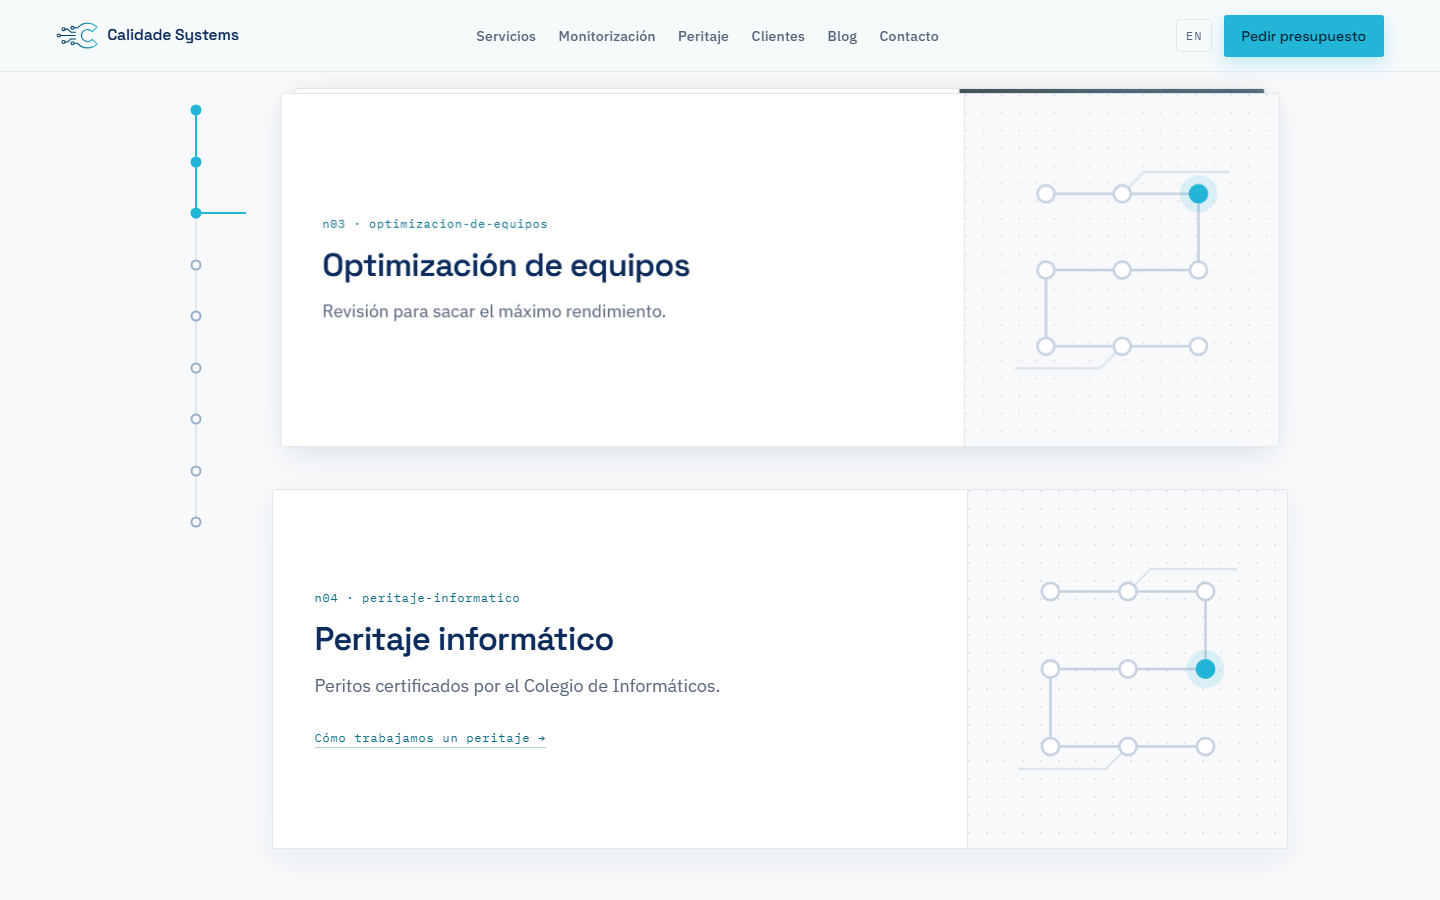
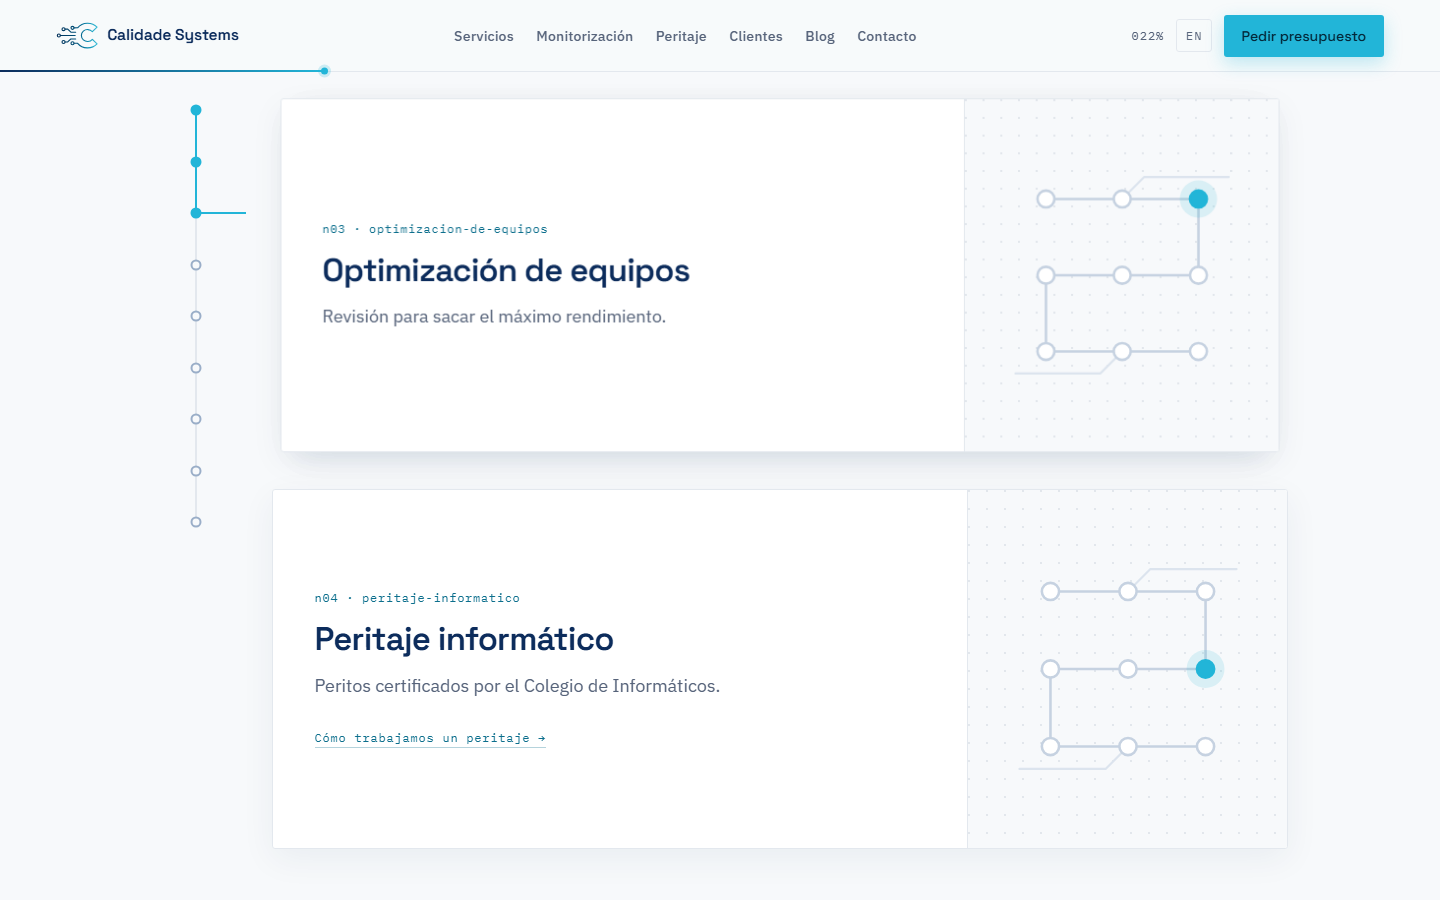
Arreglar el final de la pila de servicios y anadir el avance del recorrido
La ultima tarjeta (N09) atravesaba el tope sin llegar a pegarse: aparecia y
se iba con la pagina, dejando ver un instante las ocho de atras encogidas.
Eran dos fallos encadenados, los dos en como se calcula el recorrido de un
elemento pegajoso:

1. El margin-bottom del ULTIMO hijo no da recorrido, porque el bloque
   contenedor crece con el y su borde inferior no se aleja. El recorrido
   tiene que ser contenido de verdad: .stack::after.

2. La restriccion del pegajoso se aplica sobre la CAJA DE MARGEN. Al quitarle
   el margen solo a la ultima, su caja quedaba 38vh mas corta que la de las
   demas y las tarjetas se soltaban escalonadas: las de atras salian antes,
   subian por delante de la activa y se las veia asomar 43 px por arriba.
   Ahora todas llevan el mismo margen y se sueltan en el mismo pixel.

Ademas, la tarjeta que sale se desplazaba hacia ARRIBA (y: -8). Con
transform-origin en el borde superior eso dejaba su canto asomando sobre la
que entra. Pasa a y: +6, que la mete detras por los cuatro lados.

Medido: las nueve tarjetas llegan a pegarse, se sueltan todas en y=6940 y la
ultima aguanta 330 px pegada donde antes aguantaba 0.

Se anade tambien el avance del recorrido, en el idioma de la placa: una pista
bajo la cabecera que se llena de marino a cian, un nodo que la recorre y una
cifra mono junto al selector de idioma. Es informacion, no adorno, asi que se
actualiza tambien sin GSAP y con movimiento reducido. Se dibuja con
[…]

diff --git a/css/style.css b/css/style.css
@@ -194,6 +194,42 @@ input, textarea { font: inherit; color: inherit; }
 }
 .nav-movil a:last-child { border-bottom: 0; color: var(--gris-txt); font-size: 1rem; }
 
+/* ------------------------------------------------- avance del recorrido
+   Cuanto scroll llevas, en el idioma de la placa: una pista que se llena y
+   un nodo que la recorre. Se dibuja con transform:scaleX, no con
+   stroke-dasharray sobre un viewBox estirado: una barra recta estirada de
+   forma no uniforme rompe el truco del dasharray y sale a trozos. */
+.progreso {
+  position: fixed;
+  top: calc(var(--nav-h) - 2px); left: 0; right: 0;
+  height: 2px; z-index: 151; pointer-events: none;
+  opacity: 0; transition: opacity 0.3s ease;
+}
+.progreso.visible { opacity: 1; }
+.progreso-pista {
+  display: block; height: 100%;
+  background: linear-gradient(90deg, var(--marino), var(--cian));
+  transform: scaleX(var(--progreso, 0));
+  transform-origin: left center;
+}
+.progreso-nodo {
+  position: absolute; top: 50%;
+  /* el recorrido se descuenta el ancho del propio nodo: asi no se sale del
+     viewport ni al 0 % ni al 100 % (nada de translate(-50%)) */
+  left: calc(var(--progreso, 0) * (100% - 7px));
+  width: 7px; height: 7px; border-radius: 50%;
+  background: var(--cian);
+  box-shadow: 0 0 0 3px rgba(34, 181, 216, 0.2);
+  transform: translateY(-50%);
+}
+.progreso-cifra {
+  color: var(--gris-txt);
+  font-variant-numeric: tabular-nums;
+  letter-spacing: 0.08em;
+  display: none;
+}
+@media (min-width: 62rem) { .progreso-cifra { display: inline; } }
+
 /* --------------------------------------------------------------- botones */
 .btn {
   display: inline-flex; align-items: center; justify-content: center; gap: 0.5rem;
@@ -334,7 +370,7 @@ input, textarea { font: inherit; color: inherit; }
 }
 
 /* ------------------------------------------------- servicios: pila nodos */
-.servicios { padding-block: clamp(4rem, 9vw, 7rem) clamp(3rem, 7vw, 6rem); }
+.servicios { padding-block: clamp(4rem, 9vw, 7rem) clamp(1.5rem, 3vw, 3rem); }
 .stack-zona {
   width: 100%; max-width: var(--ancho); margin-inline: auto;
   padding-inline: var(--gutter);
@@ -360,7 +396,20 @@ input, textarea { font: inherit; color: inherit; }
   top: calc(var(--nav-h) + 1.5rem);
   margin-bottom: 38vh;
 }
-.stack-item:last-child { margin-bottom: 0; }
+/* Dos cosas que hay que dejar exactamente asi:
+
+   1. El recorrido del ultimo pegajoso tiene que ser CONTENIDO. El margen del
+      ultimo hijo no sirve: el bloque contenedor crece con el, asi que su borde
+      inferior no se aleja y la tarjeta se despega en el mismo frame en que
+      llega. De ahi el ::after.
+
+   2. TODAS las tarjetas llevan el mismo margen, tambien la ultima. La
+      restriccion del pegajoso se aplica sobre la CAJA DE MARGEN: si a la
+      ultima se le quita el margen, su caja es 38vh mas corta que la de las
+      demas y se sueltan escalonadas. Las de atras salen antes, suben por
+      delante de la activa y se ven asomar por arriba. Con el margen igualado
+      se sueltan todas en el mismo pixel de scroll. */
+.stack::after { content: ""; display: block; height: 38vh; }
 
 .nodo-tarjeta {
   background: var(--blanco-puro);
@@ -701,6 +750,7 @@ html.has-motion .traza-caja .traza-via { opacity: 0; }
   .stack-zona { grid-template-columns: 1.6rem minmax(0, 1fr); gap: 0.5rem; }
   .nodo-tarjeta { min-height: 0; padding: 1.25rem 1.1rem; }
   .stack-item { margin-bottom: 30vh; }
+  .stack::after { height: 30vh; }
   .cita-grande p::before, .cita-grande p::after { content: none; }
   .fab { font-size: 0.75rem; padding: 0.65rem 0.9rem; }
   .latido { position: static; transform: none; margin-top: 0.9rem; justify-content: center; }

diff --git a/js/main.js b/js/main.js
@@ -138,12 +138,23 @@
   /* ====================================================================== */
   (function cabeceraYFab() {
     var cabecera = $(".cabecera"), fab = $(".fab"), hero = $(".hero");
+    var barra = $("[data-progreso]"), cifra = $("[data-progreso-cifra]");
     var pendiente = false;
     function pintar() {
       pendiente = false;
       var y = window.pageYOffset;
       if (cabecera) cabecera.classList.toggle("pegada", y > 24);
       if (fab && hero) fab.classList.toggle("visible", y > hero.offsetHeight * 0.7);
+
+      /* Cuanto recorrido llevas. Es informacion, no adorno: se sigue
+         actualizando con movimiento reducido y sin GSAP, igual que el reloj. */
+      if (barra || cifra) {
+        var total = Math.max(0, html.scrollHeight - window.innerHeight);
+        var p = total > 0 ? Math.min(1, Math.max(0, y / total)) : 0;
+        html.style.setProperty("--progreso", p.toFixed(4));
+        if (barra) barra.classList.toggle("visible", y > 24);
+        if (cifra) cifra.textContent = ("00" + Math.round(p * 100)).slice(-3) + "%";
+      }
     }
     window.addEventListener("scroll", function () {
       if (!pendiente) { pendiente = true; requestAnimationFrame(pintar); }
@@ -505,10 +516,16 @@
       items.forEach(function (it, i) {
         if (i === items.length - 1) return;
         var tarjeta = $(".nodo-tarjeta", it);
+        /* La tarjeta que sale se encoge y se hunde un poco. El desplazamiento
+           tiene que ser HACIA ABAJO: con transform-origin en el borde superior,
+           un `y` negativo deja su canto asomando por encima de la que entra y
+           se ve una raya. Con +6 queda tapada por los cuatro lados. */
         gsap.to(tarjeta, {
-          scale: 0.955, y: -8, ease: "none",
+          scale: 0.955, y: 6, ease: "none",
           scrollTrigger: {
-            trigger: items[i + 1], start: "top 80%", end: "top " + Math.round(topePegajoso()),
+            trigger: items[i + 1],
+            start: "top 80%",
+            end: function () { return "top " + Math.round(topePegajoso()); },
             scrub: 0.5, invalidateOnRefresh: true
           }
         });

diff --git a/es/index.html b/es/index.html
@@ -113,6 +113,7 @@
     <a href="#contacto">Contacto</a>
   </nav>
   <div class="cabecera-fin">
+    <span class="progreso-cifra mono" data-progreso-cifra aria-hidden="true">000%</span>
     <a class="idioma" href="../en/" hreflang="en" lang="en">EN</a>
     <a class="btn btn-cian btn-nav" href="#contacto" data-magnetico>Pedir presupuesto</a>
     <button class="nav-toggle" type="button" aria-expanded="false" aria-controls="nav-movil" aria-label="Abrir menú">
@@ -120,6 +121,10 @@
     </button>
   </div>
 </header>
+<div class="progreso" data-progreso aria-hidden="true">
+  <span class="progreso-pista"></span>
+  <span class="progreso-nodo"></span>
+</div>
 <nav class="nav-movil" id="nav-movil" aria-label="Secciones (móvil)" hidden>
   <a href="#servicios">Servicios</a>
   <a href="#monitorizacion">Monitorización</a>

diff --git a/en/index.html b/en/index.html
@@ -113,6 +113,7 @@
     <a href="#contact">Contact</a>
   </nav>
   <div class="cabecera-fin">
+    <span class="progreso-cifra mono" data-progreso-cifra aria-hidden="true">000%</span>
     <a class="idioma" href="../es/" hreflang="es" lang="es">ES</a>
     <a class="btn btn-cian btn-nav" href="#contact" data-magnetico>Request a quote</a>
     <button class="nav-toggle" type="button" aria-expanded="false" aria-controls="nav-movil" aria-label="Open menu">
@@ -120,6 +121,10 @@
     </button>
   </div>
 </header>
+<div class="progreso" data-progreso aria-hidden="true">
+  <span class="progreso-pista"></span>
+  <span class="progreso-nodo"></span>
+</div>
 <nav class="nav-movil" id="nav-movil" aria-label="Sections (mobile)" hidden>
   <a href="#services">Services</a>
   <a href="#monitoring">Monitoring</a>

diff --git a/es/aviso-legal.html b/es/aviso-legal.html
@@ -43,6 +43,10 @@
     <a class="btn btn-cian btn-nav" href="./#contacto">Pedir presupuesto</a>
   </div>
 </header>
+<div class="progreso" data-progreso aria-hidden="true">
+  <span class="progreso-pista"></span>
+  <span class="progreso-nodo"></span>
+</div>
 
 <main class="legal">
   <div class="contenedor">

diff --git a/es/politica-de-cookies.html b/es/politica-de-cookies.html
@@ -43,6 +43,10 @@
     <a class="btn btn-cian btn-nav" href="./#contacto">Pedir presupuesto</a>
   </div>
 </header>
+<div class="progreso" data-progreso aria-hidden="true">
+  <span class="progreso-pista"></span>
+  <span class="progreso-nodo"></span>
+</div>
 
 <main class="legal">
   <div class="contenedor">

diff --git a/en/cookies-policy.html b/en/cookies-policy.html
@@ -43,6 +43,10 @@
     <a class="btn btn-cian btn-nav" href="./#contact">Request a quote</a>
   </div>
 </header>
+<div class="progreso" data-progreso aria-hidden="true">
+  <span class="progreso-pista"></span>
+  <span class="progreso-nodo"></span>
+</div>
 
 <main class="legal">
   <div class="contenedor">

diff --git a/en/legal-notice.html b/en/legal-notice.html
@@ -43,6 +43,10 @@
     <a class="btn btn-cian btn-nav" href="./#contact">Request a quote</a>
   </div>
 </header>
+<div class="progreso" data-progreso aria-hidden="true">
+  <span class="progreso-pista"></span>
+  <span class="progreso-nodo"></span>
+</div>
 
 <main class="legal">
   <div class="contenedor">

diff --git a/README.md b/README.md
@@ -29,6 +29,9 @@ circuito con nodos. El sitio entero se comporta como esa placa.
   pad y saca un *stub* hacia ella.
 - En monitorización, un nodo **late** cada 2 s con opacidad y escala mínimas.
   Es lo más rápido que parpadea nada en todo el sitio.
+- El **avance del recorrido** se lee en el mismo idioma: una pista bajo la
+  cabecera que se llena de marino a cian, un nodo que la recorre y una cifra
+  mono (`037%`) junto al selector de idioma.
 
 Fondo claro siempre (`#F7F9FB`). No hay modo oscuro y no se ofrece.
 
@@ -79,9 +82,23 @@ screenshots/
 - **La pila de servicios**: el pegajoso es el `<li>`, y su `margin-bottom` es
   el recorrido. La altura mínima va en la tarjeta, no en el `<li>`, o quedan
   tarjetas fantasma.
+- **La última tarjeta necesita `.stack::after`.** El `margin-bottom` del último
+  hijo no le da recorrido: el bloque contenedor crece con él, su borde inferior
+  no se aleja y la tarjeta se despega en el mismo frame en que llega. El
+  recorrido tiene que ser contenido de verdad.
+- **Todas las tarjetas llevan el mismo margen, también la última.** La
+  restricción del pegajoso se aplica sobre la *caja de margen*: si a la última
+  se le quita el margen, su caja queda 38vh más corta y las tarjetas se sueltan
+  escalonadas — las de atrás salen antes, suben por delante de la activa y se
+  las ve asomar por arriba.
 - Al apilarse, las tarjetas solo escalan (`scale` + `y`). **Nunca opacidad con
   `scrub`**: un recálculo del trigger puede dejar una tarjeta pegajosa
-  invisible.
+  invisible. Y el `y` tiene que ser **positivo**: con `transform-origin` en el
+  borde superior, un `y` negativo deja el canto de la saliente asomando por
+  encima de la entrante.
+- La barra de avance se dibuja con `transform: scaleX()`, no con
+  `stroke-dasharray` sobre un `viewBox` estirado: una barra recta deformada de
+  forma no uniforme rompe el dasharray y sale a trozos.
 - **Todo lo que se oculta para animar vive bajo `html.has-motion`**, que solo se
   enciende desde el JavaScript. Sin GSAP, sin Lenis o con movimiento reducido,
   la página se ve entera.
@@ -116,10 +133,16 @@ originales están en `assets/img/photos/_creditos.json`.
 
 ## Comprobado
 
-55 comprobaciones automáticas con Playwright, 0 fallos: hreflang recíproco,
+64 comprobaciones automáticas con Playwright, 0 fallos: hreflang recíproco,
 JSON-LD, respaldo del blog con `route.abort()`, cookies con rechazo real, mapa
 bajo demanda, formulario, caída de GSAP, movimiento reducido y 400 px. El
 detalle está en [`seo/MIGRACION-SEO.md`](seo/MIGRACION-SEO.md) §8.
+
+Entre ellas, cuatro que vigilan justo lo que ya se rompió una vez: que las
+nueve tarjetas llegan a pegarse, que la última **se queda** pegada en lugar de
+atravesar el tope, que ninguna tarjeta de atrás asoma por fuera de la activa, y
+que el avance del recorrido llega al 100 % también sin GSAP y con movimiento
+reducido.
 
 ## Cómo verlo
 

diff --git a/seo/MIGRACION-SEO.md b/seo/MIGRACION-SEO.md
@@ -209,7 +209,7 @@ Sobre el sitio real, hoy:
 - La API REST contesta y admite CORS (refleja el `Origin`), aunque en
   producción la llamada será del mismo dominio y no hará falta.
 
-Sobre la web nueva, con Playwright (55 comprobaciones, 0 fallos):
+Sobre la web nueva, con Playwright (64 comprobaciones, 0 fallos):
 
 - `hreflang` recíproco y `x-default` al español en las 6 páginas; ninguna
   declara `gl`; todas tienen `title`, `description` y un solo `<h1>`.
@@ -229,6 +229,12 @@ Sobre la web nueva, con Playwright (55 comprobaciones, 0 fallos):
   son contenido, no decoración.
 - A 400 px: sin scroll horizontal, nada se sale del ancho y las pistas siguen
   siendo verticales en el margen izquierdo.
+- La pila de los nueve servicios: las nueve tarjetas llegan a pegarse, se
+  sueltan todas en el mismo píxel de scroll, la última aguanta 330 px pegada en
+  lugar de atravesar el tope, y ninguna tarjeta de atrás asoma por fuera de la
+  activa.
+- El avance del recorrido llega al 100 % con GSAP, sin GSAP y con movimiento
+  reducido.
 
 ---
 
